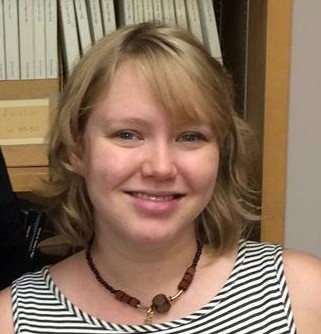
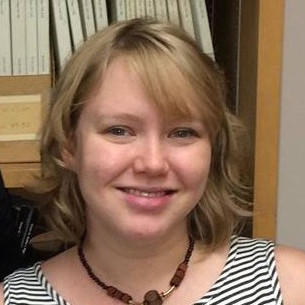
update

diff --git a/people.html b/people.html
@@ -82,7 +82,7 @@
                 <p><a href="mailto:phylo@iastate.edu"><img src="images/mail.png" alt="" width="30" /> </a><a href="https://github.com/trayc7"><img src="images/github.png" alt="" width="30" /></a> <a href="https://bitbucket.org/trayc7"><img src="images/bb.png" alt="" width="27" /></a> <a href="https://twitter.com/trayc7"><img src="images/twitter.png" alt="" width="27" /></a> <a href="assets/Heath_CV_web.pdf"><img src="images/cvi.png" alt="" width="30" /></a></p></center>
             </div>
             <div class="col-md-3">
-                <center><a href="http://phylopic.org/image/bdea24c1-9aa7-4c6d-afe8-db223f51efe1/"><img class="img-circle img-responsive img-center" src="images/april.jpg" alt="" height="100" width="200"></a>
+                <center><img class="img-circle img-responsive img-center" src="images/april.jpg" alt="" height="200" width="200">
                 <h3><a href="http://wrightaprilm.github.io/pages/about_me.html">April Wright, PhD</a></h3>
 				<h4>Postdoctoral Researcher</h4>
                 <p><a href="http://wrightaprilm.github.io/pages/about_me.html"><img src="images/mail.png" alt="" width="30" /> </a><a href="https://github.com/wrightaprilm"><img src="images/github.png" alt="" width="30" /></a> <a href="https://twitter.com/WrightingApril"><img src="images/twitter.png" alt="" width="27" /></a></p></center>
